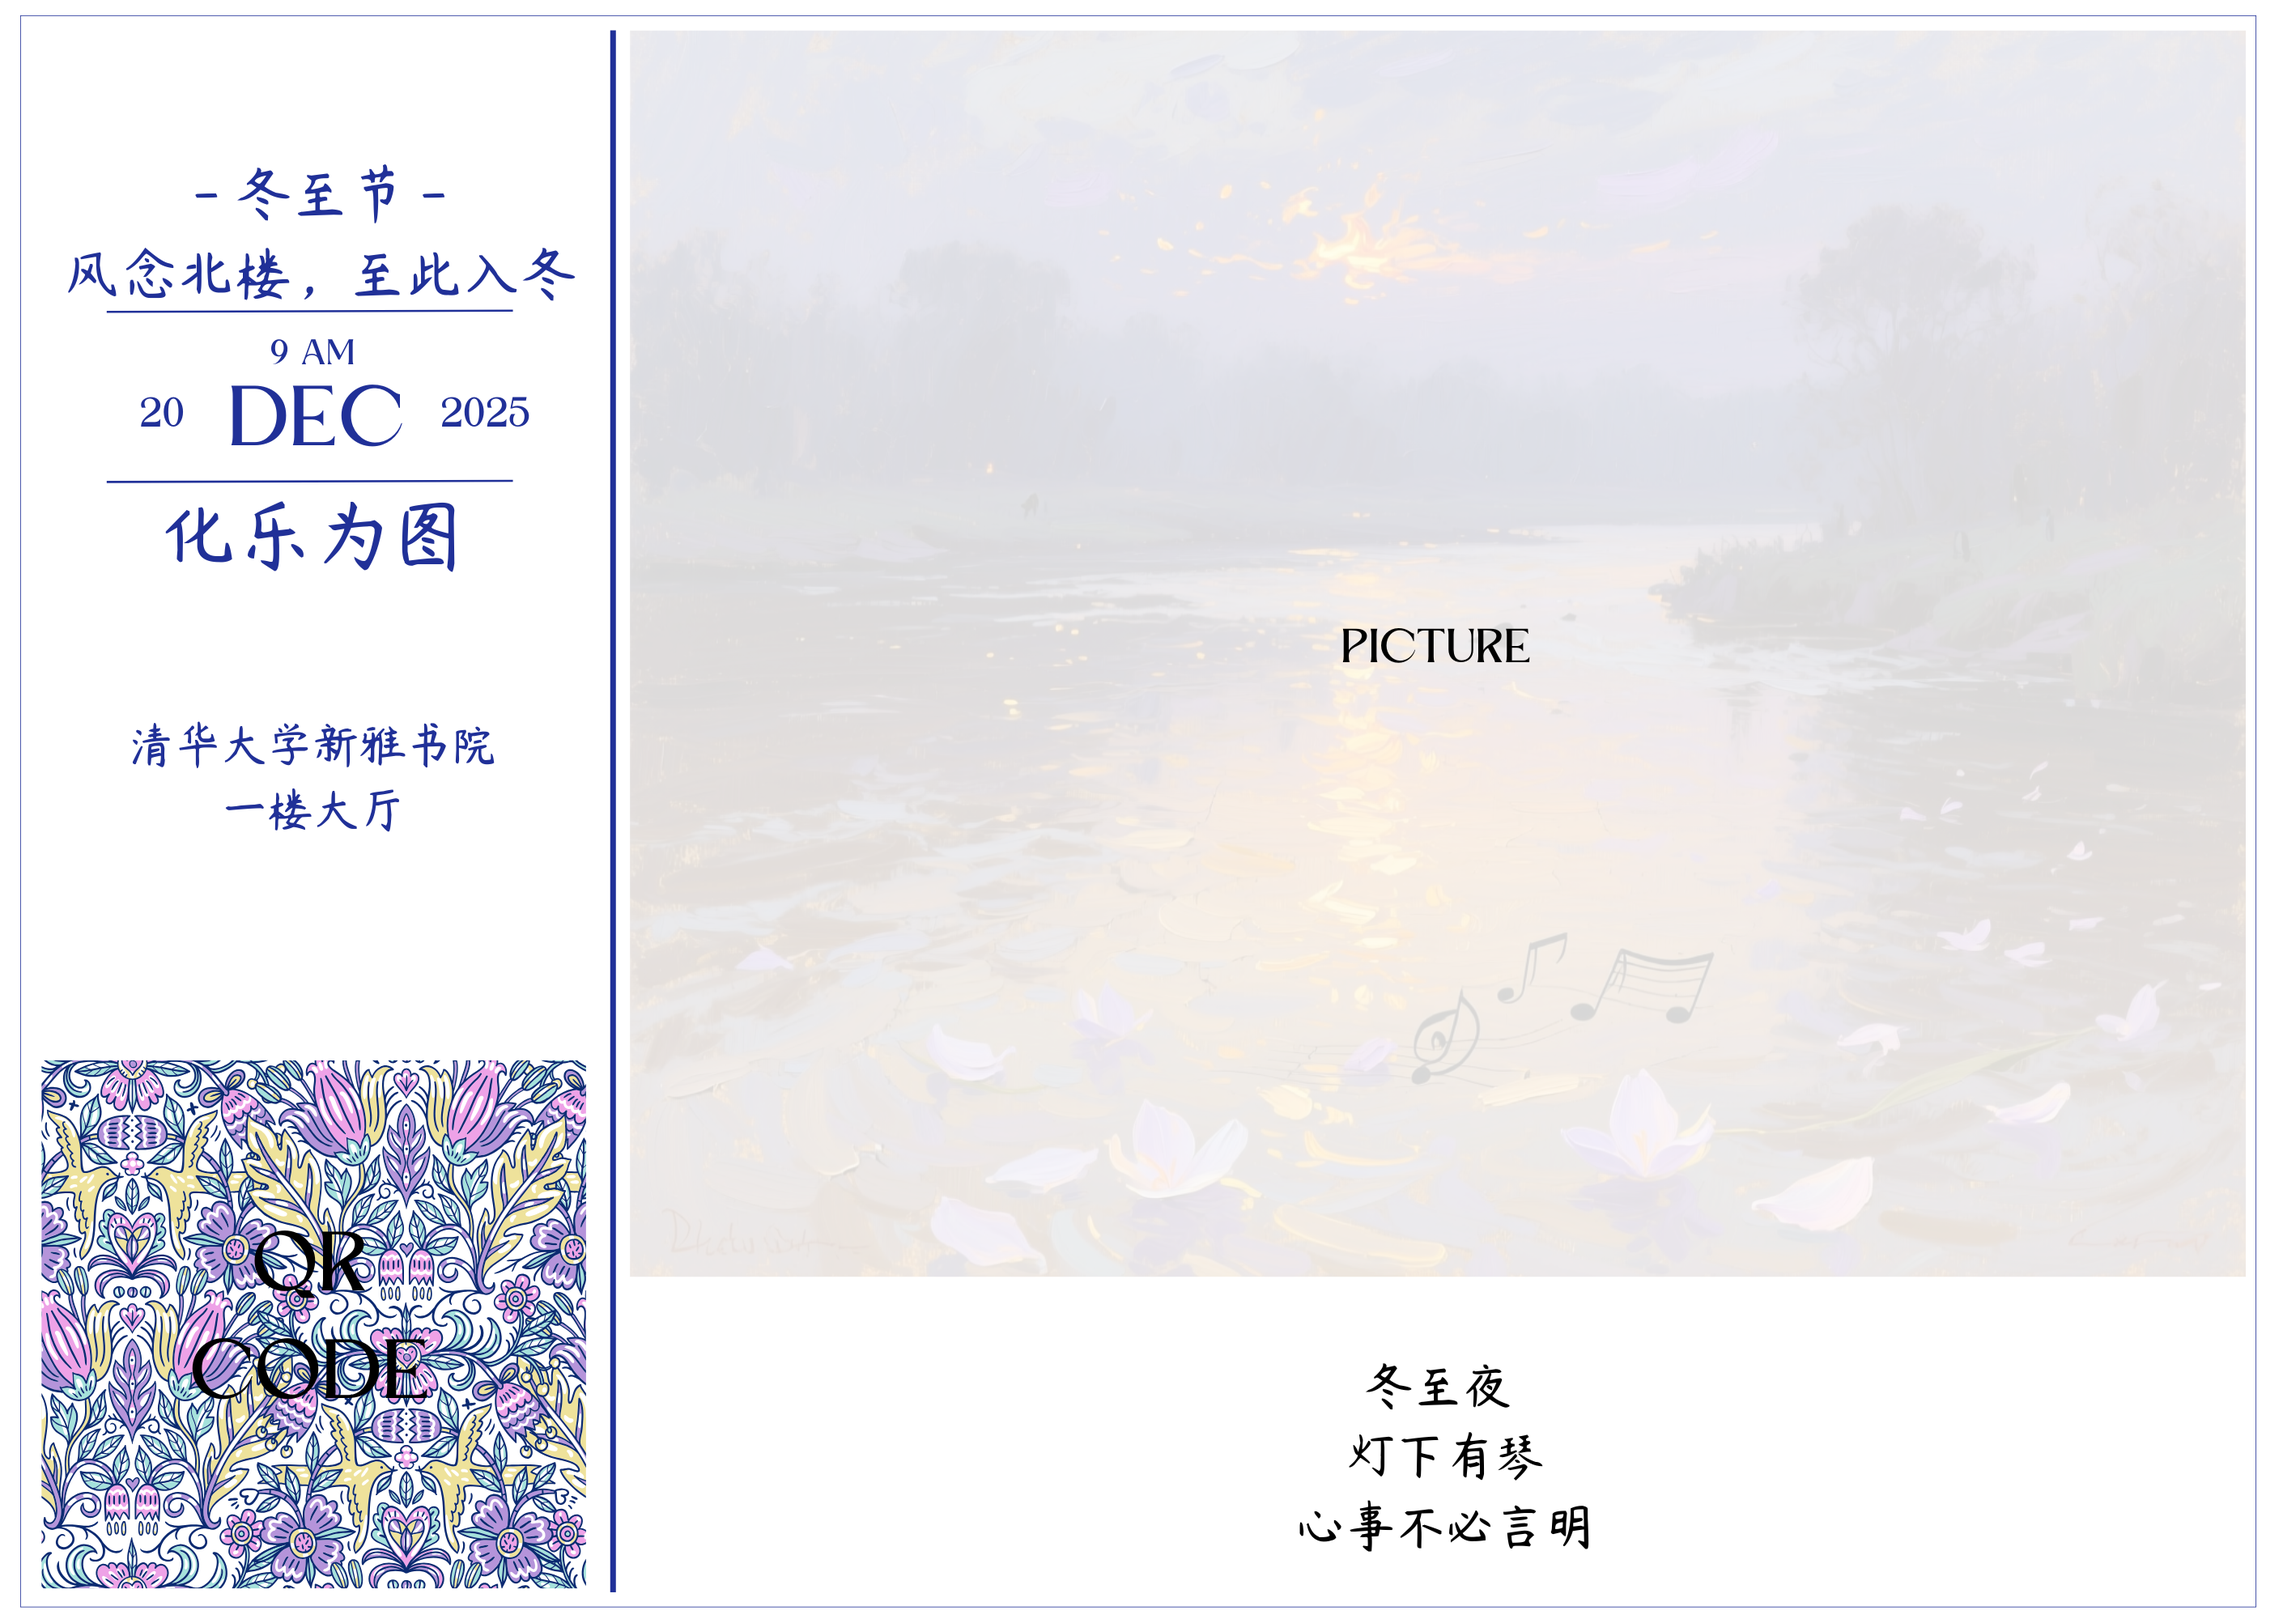
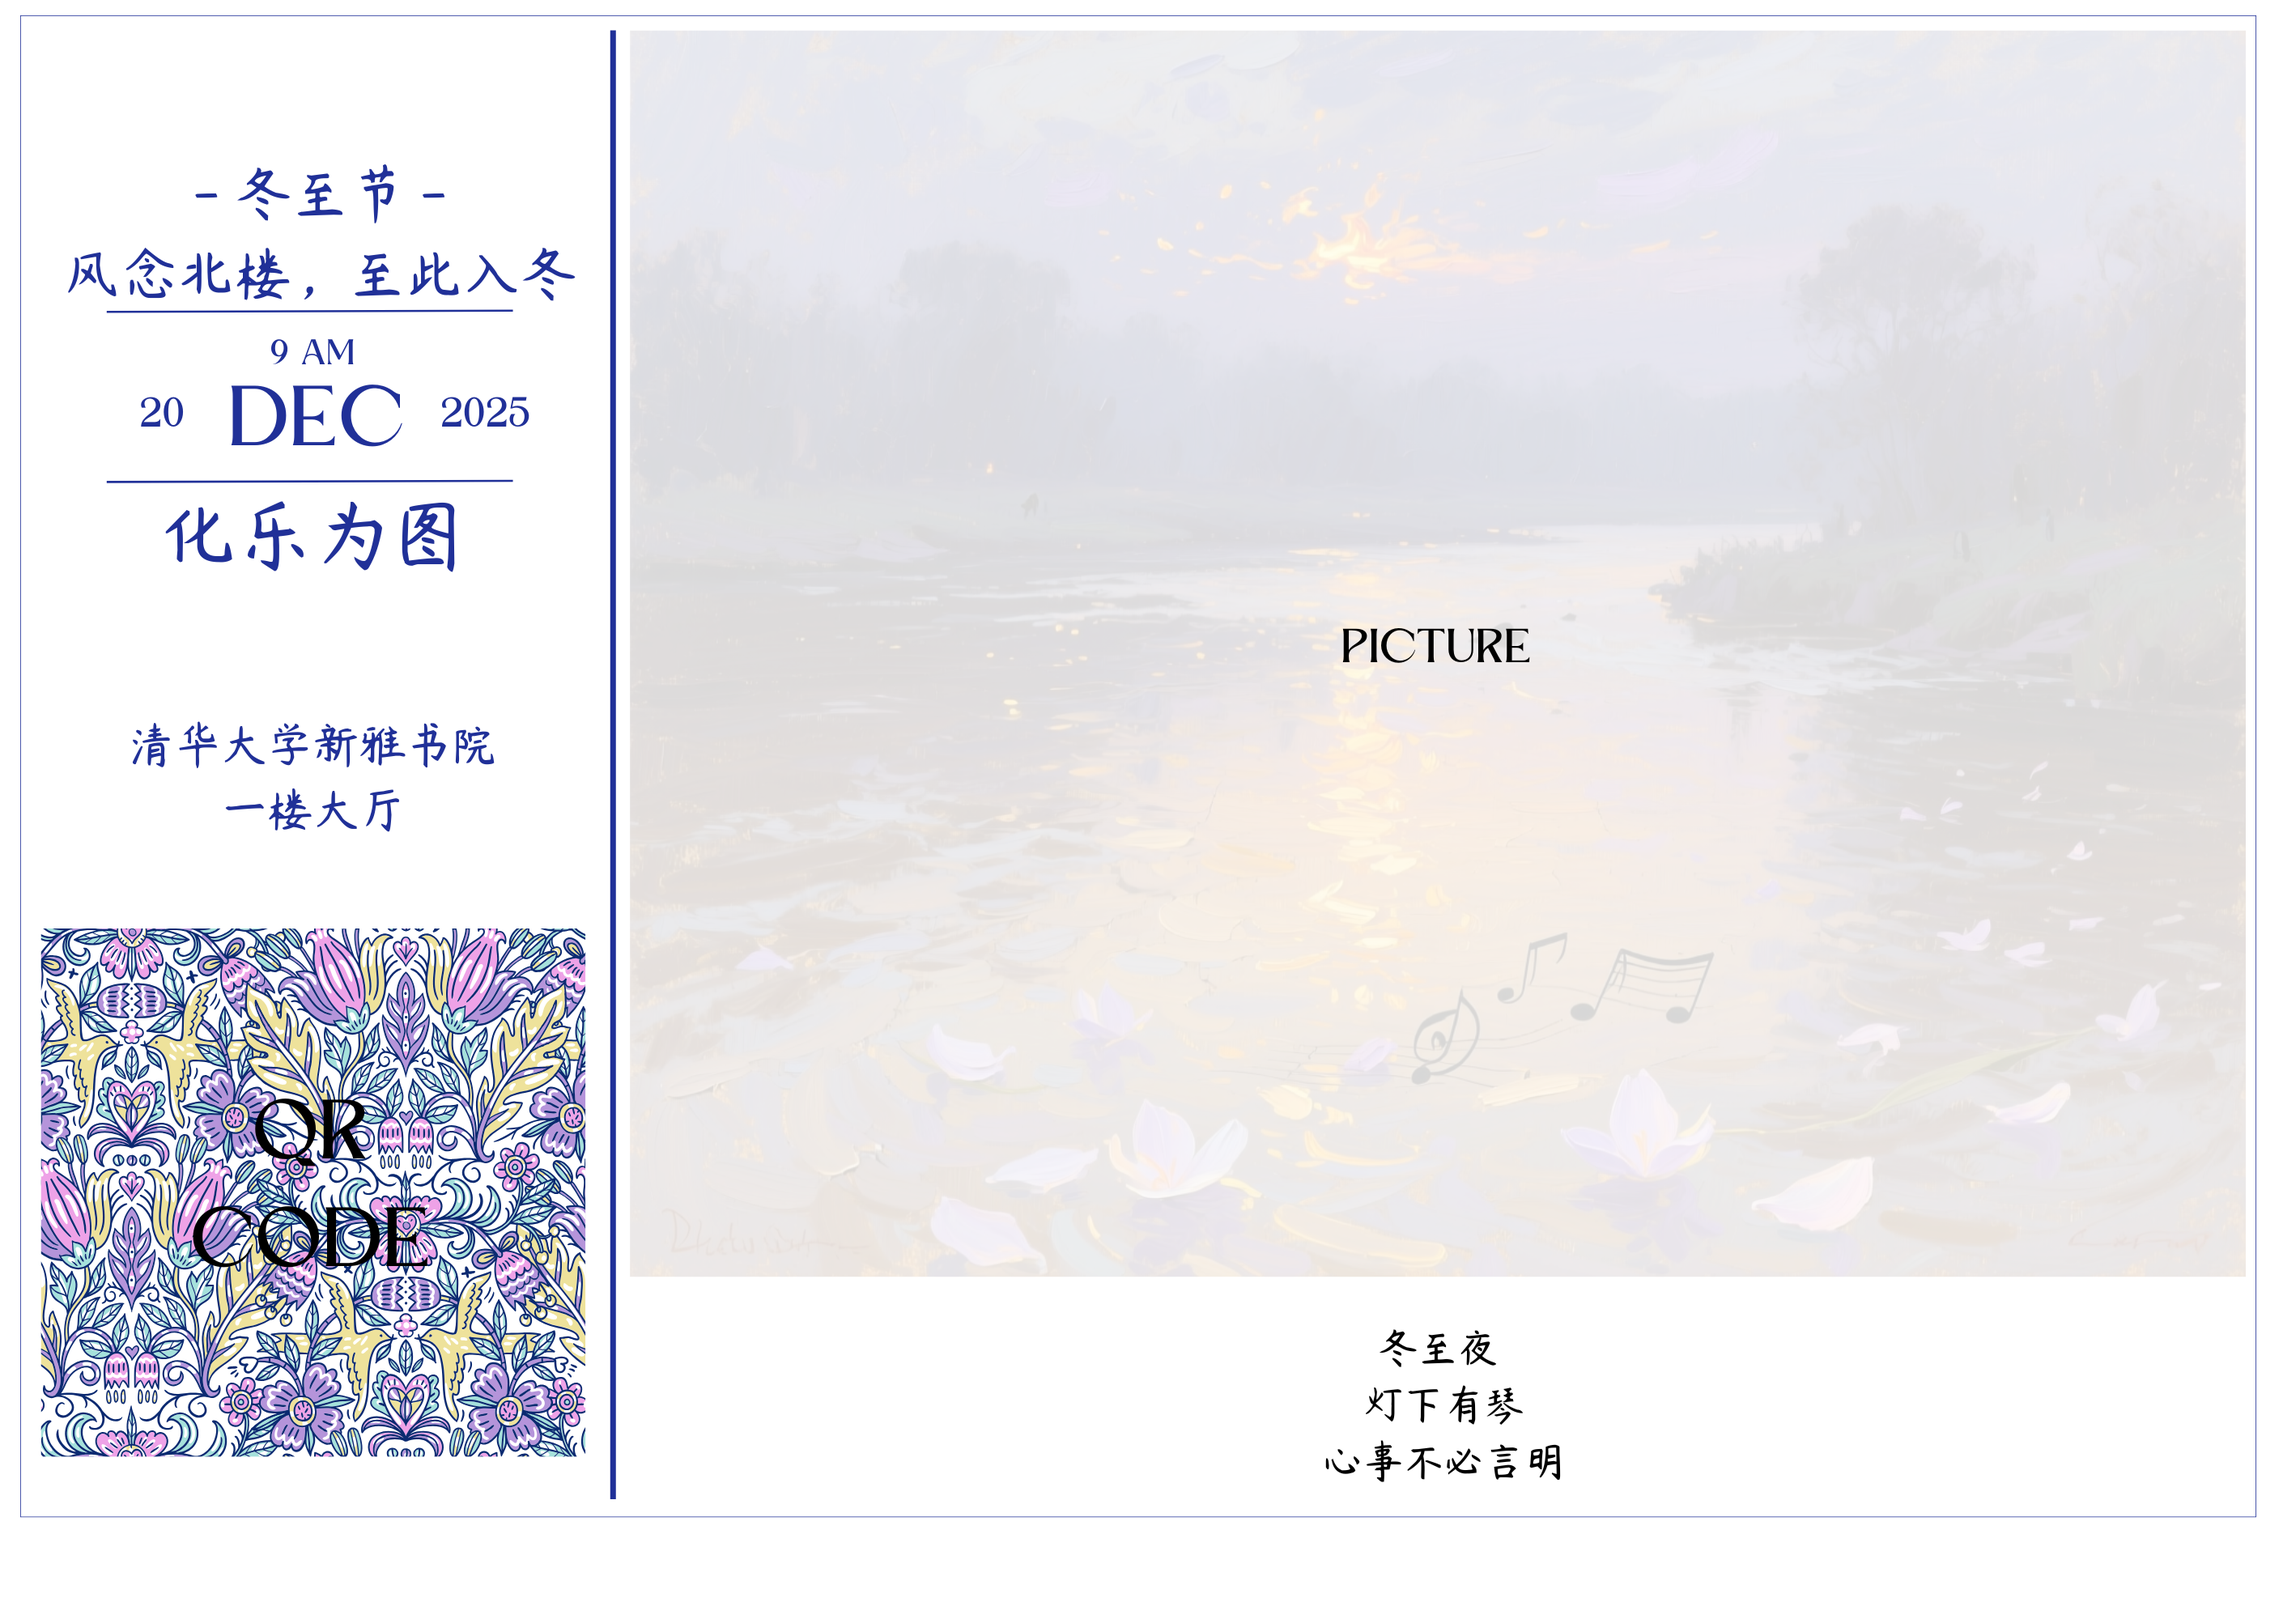
change template

Changed region(s): [[0.0, 0.558, 0.9674, 1.0], [0.5617, 0.806, 0.7177, 0.961]]

diff --git a/web_app.py b/web_app.py
@@ -451,7 +451,7 @@ class AppHandler(SimpleHTTPRequestHandler):
             return
 
         ai_box = (776, 38, 2773, 1577)
-        qr_box = (49, 1310, 723, 1961)
+        qr_box = (49, 1147, 720, 1798)
         resampling = getattr(Image, "Resampling", Image)
         paste_contain(base, ai_img, ai_box, resample=getattr(resampling, "LANCZOS", Image.LANCZOS))
         # QR: avoid non-integer scaling (hurts scanning). If it fits, paste 1:1 centered.
